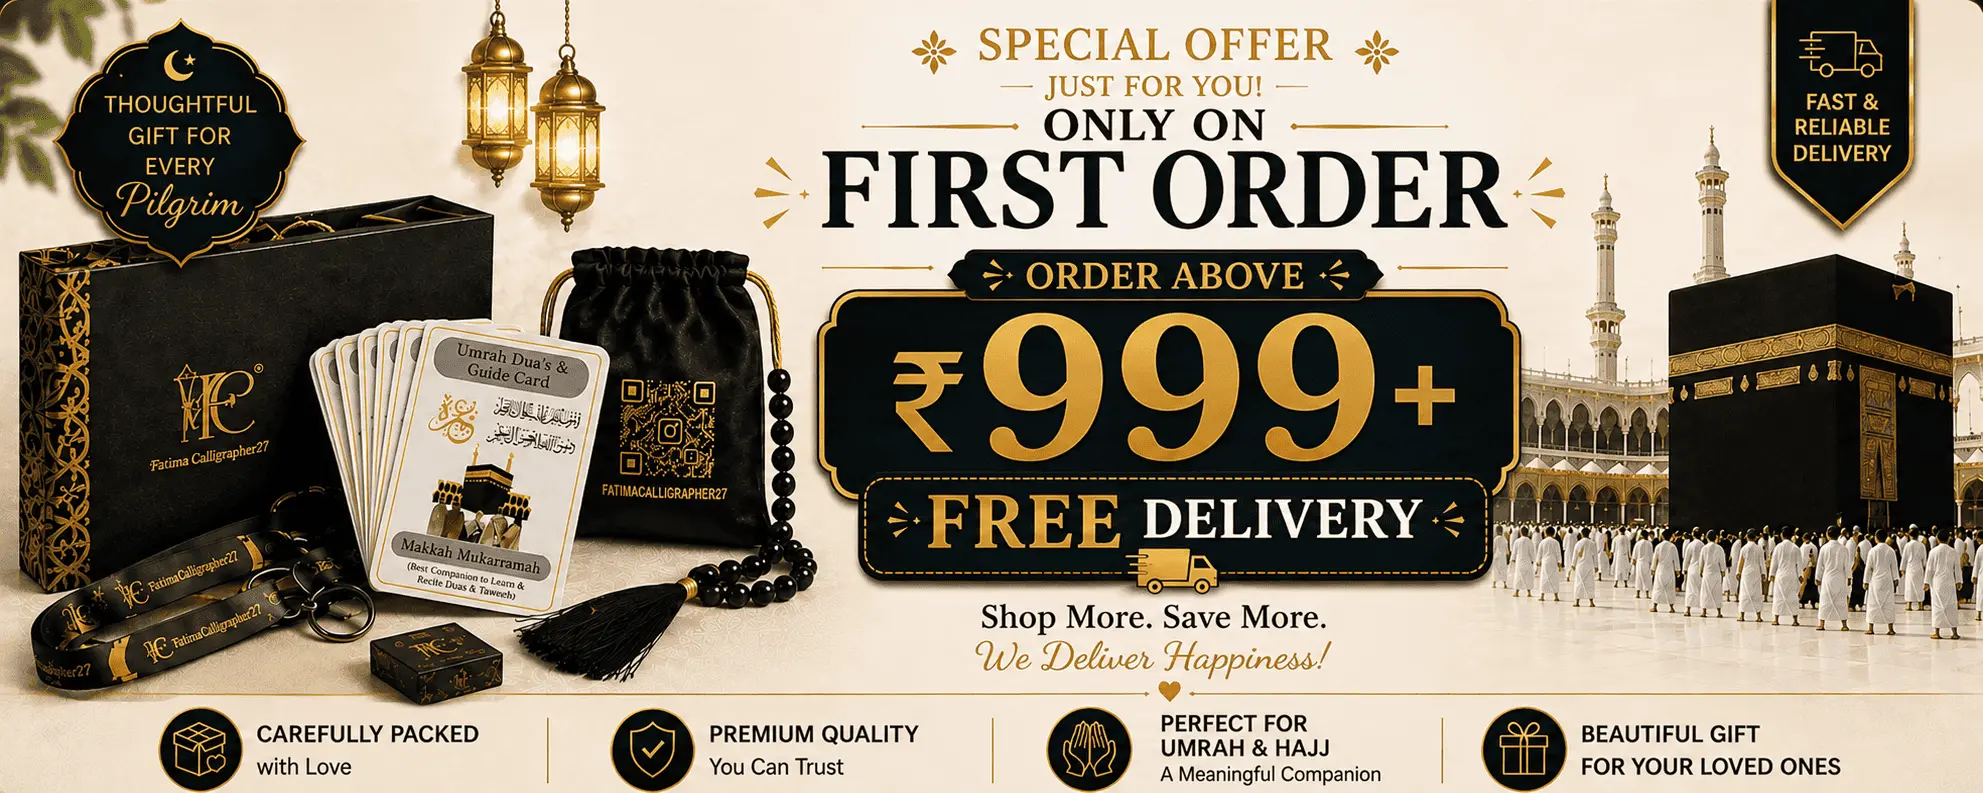
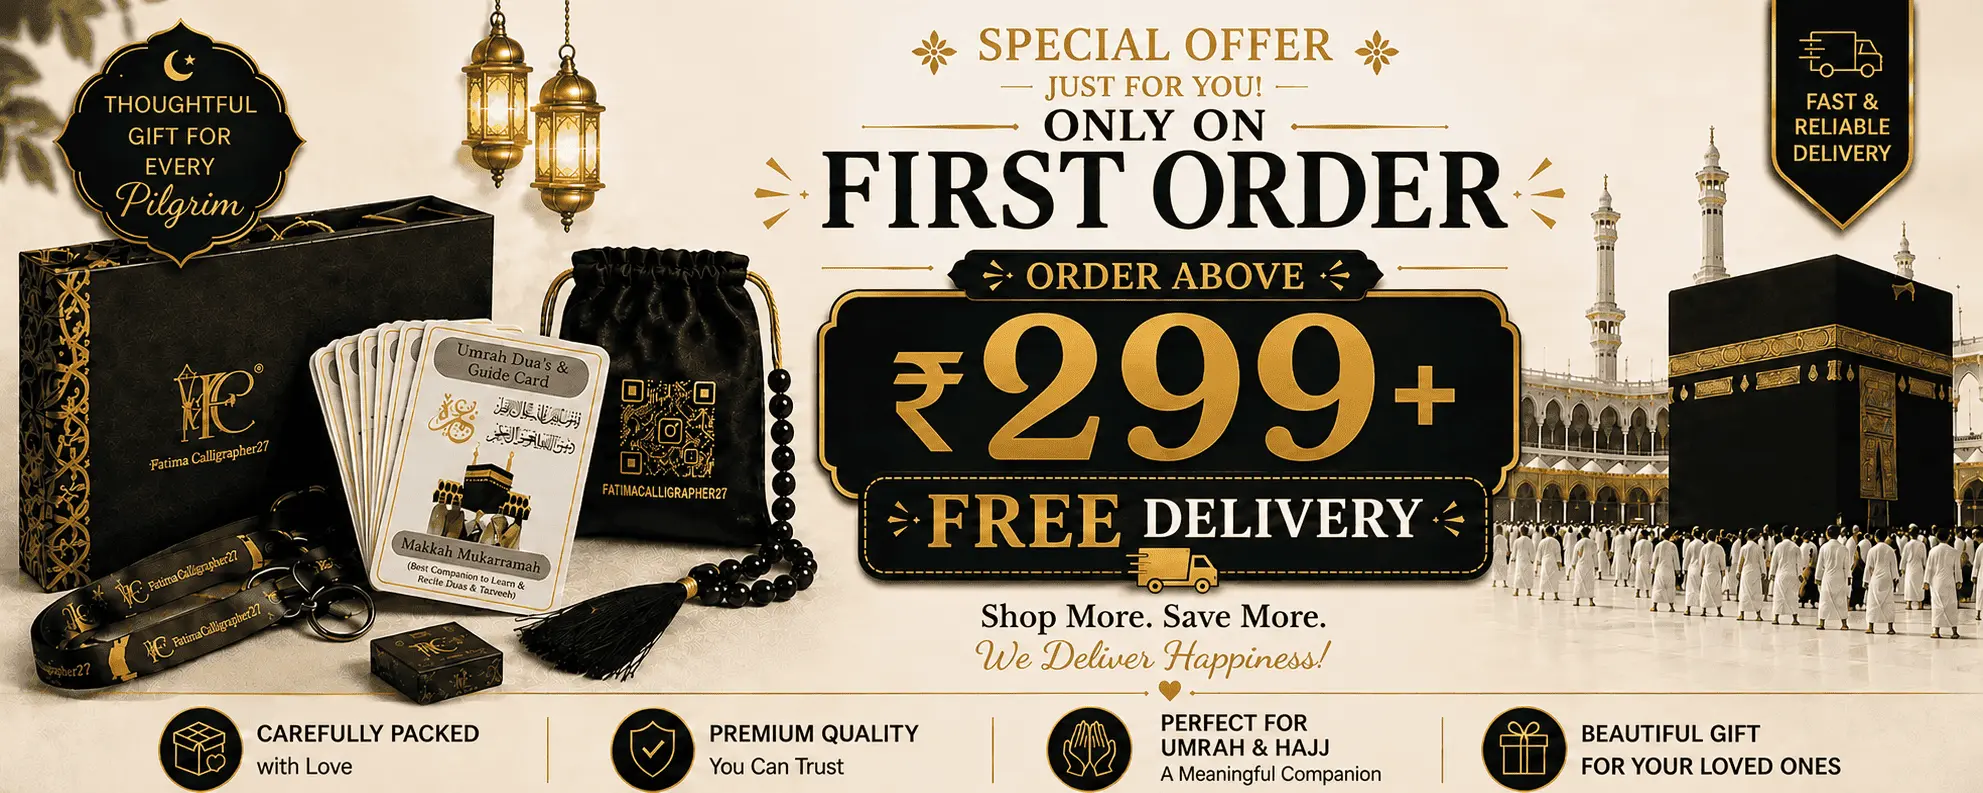
sdf

diff --git a/index.html b/index.html
@@ -7,7 +7,7 @@
     
     <!-- Canonical & SEO Meta Tags -->
     <link rel="canonical" href="https://fatimacalligrapher27.com/">
-    <meta name="description" content="Authentic Umrah Dua Cards & Stickers in Urdu, English, Hindi & Roman English. Water & tear-resistant step-by-step guidance for Tawaf & Sa'i. Order online with Free Shipping above ₹999!">
+    <meta name="description" content="Authentic Umrah Dua Cards & Stickers in Urdu, English, Hindi & Roman English. Water & tear-resistant step-by-step guidance for Tawaf & Sa'i. Order online with Free Shipping above ₹299!">
     <meta name="keywords" content="Umrah Dua Cards, Umrah Guide, Dua Stickers, Tawaf Tasbih Counter, Fatima Calligrapher 27">
 
     <!-- Open Graph (OG) Meta Tags for WhatsApp, Facebook, iMessage & Social Previews -->
@@ -212,7 +212,7 @@
     <!-- TOP ANNOUNCEMENT BAR (Always Single Row on Mobile) -->
     <div class="bg-onyx text-pearl text-[9px] min-[370px]:text-[10.5px] sm:text-xs font-semibold py-1.5 px-2 text-center border-b border-gold-500/30 flex items-center justify-center gap-1.5 whitespace-nowrap overflow-hidden tracking-tight">
         <span class="w-1.5 h-1.5 rounded-full bg-emerald-400 animate-pulse flex-shrink-0"></span>
-        <span class="whitespace-nowrap truncate">🎉 <b>FIRST ORDER OFFER</b>: Free Shipping on ₹999+ Orders | Extra 12% OFF with Code <b>RAB112</b></span>
+        <span class="whitespace-nowrap truncate">🎉 <b>FIRST ORDER OFFER</b>: Free Shipping on ₹299+ Orders | Extra 12% OFF with Code <b>RAB112</b></span>
         <span class="hidden lg:inline-block bg-gold-500/20 text-gold-300 px-2 py-0.5 rounded text-[10px] font-mono border border-gold-500/30 flex-shrink-0" id="top-timer">Ends in 14:28</span>
     </div>
 
@@ -832,7 +832,7 @@
 
             <!-- Offer Image with 1.5s Shine Sweep -->
             <a href="#products-grid" onclick="dismissFloatingOfferPopup()" class="block relative rounded-xl sm:rounded-2xl overflow-hidden banner-shine-container cursor-pointer">
-                <img src="product/offer.webp" alt="Special Offer - Order Above ₹999 Free Delivery" decoding="async" class="w-full h-auto object-cover rounded-xl sm:rounded-2xl drop-shadow-md" />
+                <img src="product/offer.webp" alt="Special Offer - Order Above ₹299 Free Delivery" decoding="async" class="w-full h-auto object-cover rounded-xl sm:rounded-2xl drop-shadow-md" />
                 <div class="absolute inset-0 rounded-xl sm:rounded-2xl border border-gold-400/40 pointer-events-none"></div>
             </a>
         </div>
@@ -2356,7 +2356,7 @@
             }
 
             let effectiveFee = currentShippingFee;
-            if (subtotalPrice >= 999 && currentShippingFee !== null) {
+            if (subtotalPrice >= 299 && currentShippingFee !== null) {
                 effectiveFee = 0;
             }
             const activeFee = (effectiveFee !== null && effectiveFee !== undefined) ? effectiveFee : 0;

diff --git a/product.html b/product.html
@@ -259,7 +259,7 @@
                             -30% OFF
                         </span>
                         <span class="text-[11px] text-emerald-800 font-bold bg-emerald-50 px-2.5 py-0.5 rounded-lg border border-emerald-300 flex items-center gap-1">
-                            <i class="fa-solid fa-bolt text-emerald-600"></i> Free Express Delivery on ₹999+
+                            <i class="fa-solid fa-bolt text-emerald-600"></i> Free Express Delivery on ₹299+
                         </span>
                     </div>
 
@@ -454,7 +454,7 @@
                     <i class="fa-solid fa-bag-shopping text-gold-400 text-base"></i>
                     <div>
                         <h3 class="font-cinzel text-sm sm:text-base font-bold text-gold-300">Instant Express Checkout</h3>
-                        <p class="text-[9px] text-gray-300">✓ Free Shipping above ₹999 • Cash on Delivery</p>
+                        <p class="text-[9px] text-gray-300">✓ Free Shipping above ₹299 • Cash on Delivery</p>
                     </div>
                 </div>
                 <button onclick="toggleCartDrawer(false)" class="w-8 h-8 rounded-full bg-white/10 hover:bg-white/20 text-pearl flex items-center justify-center text-xs cursor-pointer">
@@ -1475,7 +1475,7 @@
             const subtotalPrice = cart.reduce((sum, item) => sum + (item.price * item.qty), 0);
 
             let effectiveFee = currentShippingFee;
-            if (subtotalPrice >= 999 && currentShippingFee !== null) {
+            if (subtotalPrice >= 299 && currentShippingFee !== null) {
                 effectiveFee = 0;
             }
             const activeFee = (effectiveFee !== null && effectiveFee !== undefined) ? effectiveFee : 0;

diff --git a/checkout.html b/checkout.html
@@ -717,9 +717,9 @@
             countEl.textContent = totalQty;
             subtotalEl.textContent = `Rs. ${subtotal.toFixed(2)}`;
 
-            // Shipping logic: Free above 999
+            // Shipping logic: Free above 299
             let effectiveShipping = currentShippingFee;
-            if (subtotal >= 999 && currentShippingFee !== null) {
+            if (subtotal >= 299 && currentShippingFee !== null) {
                 effectiveShipping = 0;
             }
 

diff --git a/backend/services/catalogService.js b/backend/services/catalogService.js
@@ -66,8 +66,8 @@ async function buildTrustedOrderItems(rawItems, deliveryPincode, couponCode = nu
     }
   }
 
-  // Free delivery ONLY if order subtotal is more than or equal to Rs. 999
-  if (subtotal >= 999) {
+  // Free delivery ONLY if order subtotal is more than or equal to Rs. 299
+  if (subtotal >= 299) {
     shipping = 0;
   }
 
